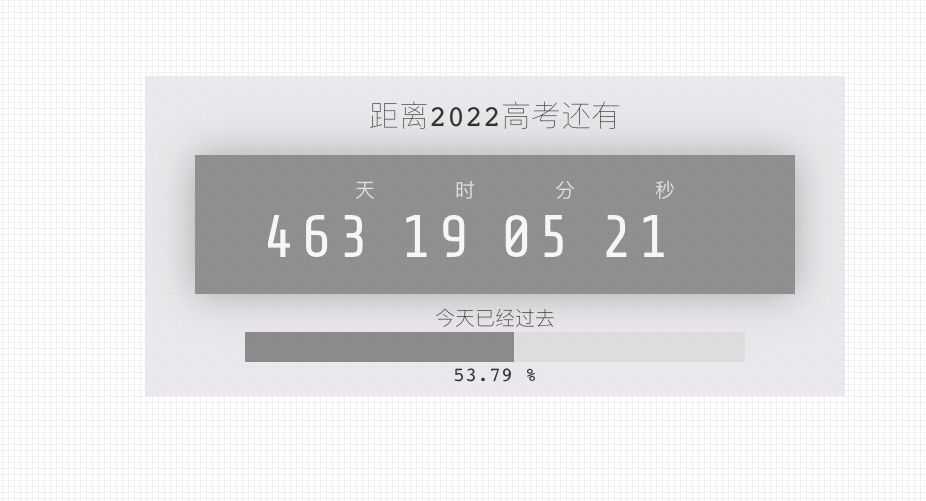
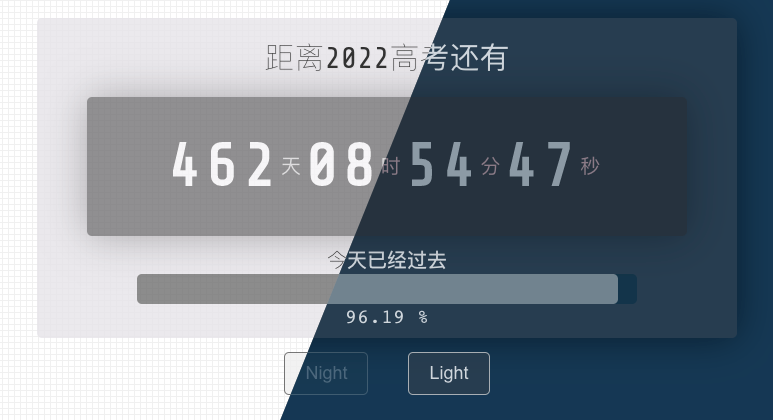
upload.

diff --git a/index.html b/index.html
@@ -24,7 +24,19 @@
             </div>
 
             <div class="clock">
-                <div class="clock-item day">
+                <div class="clock-item">
+                    <span class="day">000</span>
+                    <div>天</div>
+                    <span class="hour">000</span>
+                    <div>时</div>
+                    <span class="minute">000</span>
+                    <div>分</div>
+                    <span class="second">000</span>
+                    <div>秒</div>
+                </div>
+                
+                
+                <!-- <div class="clock-item day">
                     <div>天</div>
                     <span>000</span>
                 </div>
@@ -39,7 +51,7 @@
                 <div class="clock-item second">
                     <div>秒</div>
                     <span>00</span>
-                </div>
+                </div> -->
             </div>
             
             <div class="pass">

diff --git a/css/night.css b/css/night.css
@@ -62,13 +62,14 @@ hr {
       font-family: 'Share Tech Mono', monospace;
       position: relative;
       display: flex;
-      flex-direction: column;
-      align-items: flex-end;
-      width: 60px;
+      justify-content: center;
+      align-items: center;
+      width: 600px;
       margin: 0 20px; }
       .container .clock .clock-item div {
         font-size: 20px;
-        color: #f8bfbf; }
+        color: #f8bfbf;
+        letter-spacing: 5px; }
       .container .clock .clock-item span {
         font-size: 60px;
         font-weight: 900;

diff --git a/css/light.css b/css/light.css
@@ -59,13 +59,14 @@ hr {
       font-family: 'Share Tech Mono', monospace;
       position: relative;
       display: flex;
-      flex-direction: column;
-      align-items: flex-end;
-      width: 60px;
+      justify-content: center;
+      align-items: center;
+      width: 600px;
       margin: 0 20px; }
       .container .clock .clock-item div {
         font-size: 20px;
-        color: #ccc; }
+        color: #ccc;
+        letter-spacing: 5px; }
       .container .clock .clock-item span {
         font-size: 60px;
         font-weight: 700;

diff --git a/js/index.js b/js/index.js
@@ -9,10 +9,10 @@ function getQueryVariable(variable){
 }
 
 window.addEventListener("load", () => {
-    const day = document.querySelector(".day>span");
-	const hour = document.querySelector(".hour>span");
-	const minute = document.querySelector(".minute>span");
-	const second = document.querySelector(".second>span");
+    const day = document.querySelector(".day");
+	const hour = document.querySelector(".hour");
+	const minute = document.querySelector(".minute");
+	const second = document.querySelector(".second");
 	
 	
 	const getTime = () => {

diff --git a/scss/night.scss b/scss/night.scss
@@ -76,13 +76,16 @@ hr {
 			font-family: 'Share Tech Mono', monospace;
 			position: relative;
 			display: flex;
-			flex-direction: column;
-			align-items: flex-end;
-			width: 60px;
+			justify-content: center;
+
+			align-items: center;
+			width: 600px;
 			margin: 0 20px;
 			div {
 				font-size: 20px;
 				color: rgb(248, 191, 191);
+				letter-spacing: 5px;
+
 			}
 			span {
 				font-size: 60px;

diff --git a/scss/light.scss b/scss/light.scss
@@ -72,13 +72,16 @@ hr {
 			font-family: 'Share Tech Mono', monospace;
 			position: relative;
 			display: flex;
-			flex-direction: column;
-			align-items: flex-end;
-			width: 60px;
+			justify-content: center;
+
+			align-items: center;
+			width: 600px;
 			margin: 0 20px;
 			div {
 				font-size: 20px;
 				color: #ccc;
+				letter-spacing: 5px;
+
 			}
 			span {
 				font-size: 60px;
